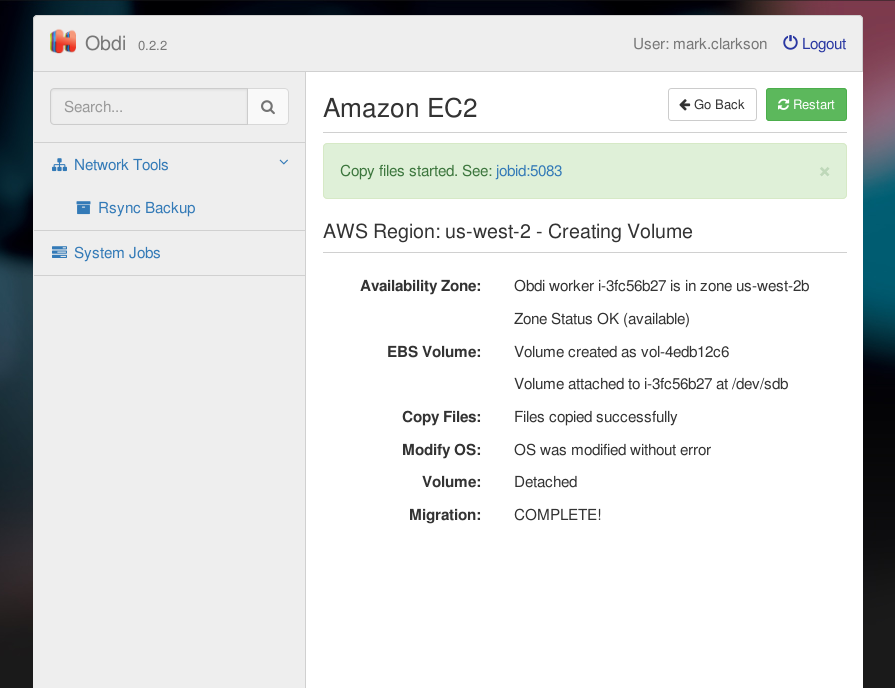
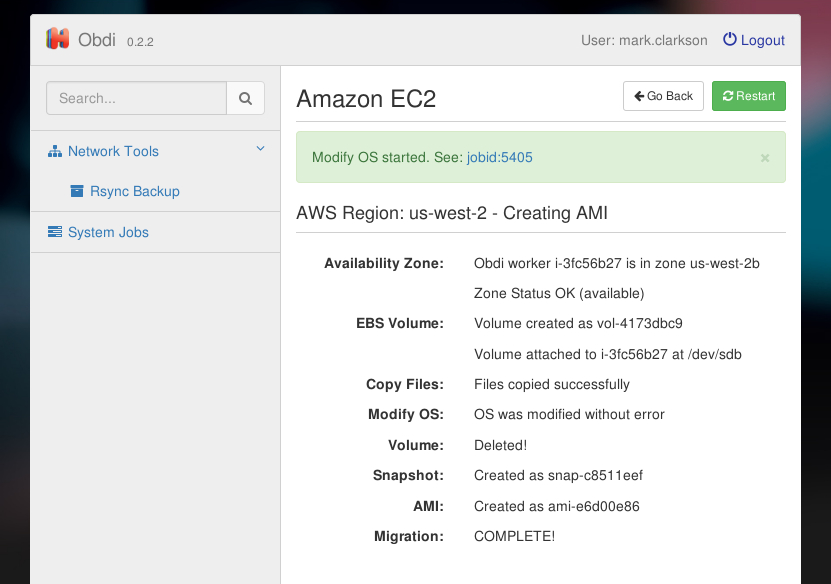
in progress

diff --git a/js/controllers/aws-p2ec2.js b/js/controllers/aws-p2ec2.js
@@ -978,8 +978,28 @@ mgrApp.controller("awsp2ec2", function ($scope,$http,$uibModal,$log,
 
       // NEXT...
       if( $scope.snapshotstatus.Snapshots[0].State == "completed" ) {
+
         $scope.migrate.snapshot.status = "finished";
+
+        data = { DryRun: false,
+                 VolumeId: $scope.migrate.create_volume.volumeid
+               }
+
+        // Sneakily delete the volume
+        $http({
+          method: 'POST',
+          data: data,
+          url: baseUrl + "/" + $scope.login.userid + "/" + $scope.login.guid
+               + "/aws-ec2lib/delete-volume?env_id="
+               + $rootScope.awsp2ec2_plugin.envId
+               + "&region=" + $scope.awsdata.Aws_obdi_worker_region
+               + '&time='+new Date().getTime().toString()
+        }).success( function(data, status, headers, config) {
+            $scope.migrate.detachvolume.status = "deleted";
+        }); // Ignore the error (FIXME)
+
         nextfn(0);
+
       } else {
         $scope.Migrate_WaitForSnapshot( nextfn );
       }
@@ -1022,11 +1042,22 @@ mgrApp.controller("awsp2ec2", function ($scope,$http,$uibModal,$log,
     $scope.migrate.ami = {};
     $scope.migrate.ami.status = "started";
 
-    var params = {
-                   Description: "Created by obdi-aws-p2ec2 for " +
-                                $scope.migrate.create_volume.volumeid,
-                   VolumeId: $scope.migrate.create_volume.volumeid
-                 };
+    var params = { Name: "AMI-"+$scope.migrate.snapshot.snapshotid,
+                   Description: "Created by obdi-aws-p2ec2 from " +
+                                $scope.migrate.snapshot.snapshotid,
+                   RootDeviceName: "sda1",
+                   VirtualizationType: "hvm",
+                   BlockDeviceMappings: [
+                   {
+                       DeviceName: "sda1",
+                       Ebs: {
+                           DeleteOnTermination: true,
+                           SnapshotId: $scope.snapshot.SnapshotId,
+                           VolumeSize: $scope.datacopy.size_gb,
+                           VolumeType: "gp2"
+                       }
+                   }]
+    };
 
     $http({
       method: 'POST',
@@ -1046,7 +1077,7 @@ mgrApp.controller("awsp2ec2", function ($scope,$http,$uibModal,$log,
       }
 
       $scope.migrate.ami.status = "finished";
-      $scope.migrate.ami.amiid = $scope.ami.AmiId;
+      $scope.migrate.ami.amiid = $scope.ami.ImageId;
 
       // NEXT...
       //$scope.Migrate_WaitForVolume( $scope.Migrate_End );

diff --git a/html/view.html b/html/view.html
@@ -523,6 +523,10 @@
         <p class="col-sm-4 right"><b>Volume:</b></p>
         <p class="col-sm-8">Detached</p>
       </div>
+      <div ng-if="migrate.detachvolume.status == 'deleted'">
+        <p class="col-sm-4 right"><b>Volume:</b></p>
+        <p class="col-sm-8">Deleted!</p>
+      </div>
 
       <!-- Create Snapshot -->
 
@@ -550,7 +554,7 @@
           <i class="ellipsis"><i>.</i><i>.</i><i>.</i></i>
         </p>
       </div>
-      <div ng-if="migrate.blah.status == 'finished'">
+      <div ng-if="migrate.ami.status == 'finished'">
         <p class="col-sm-4 right"><b>AMI:</b></p>
         <p class="col-sm-8">Created as {{migrate.ami.amiid}}</p>
       </div>
